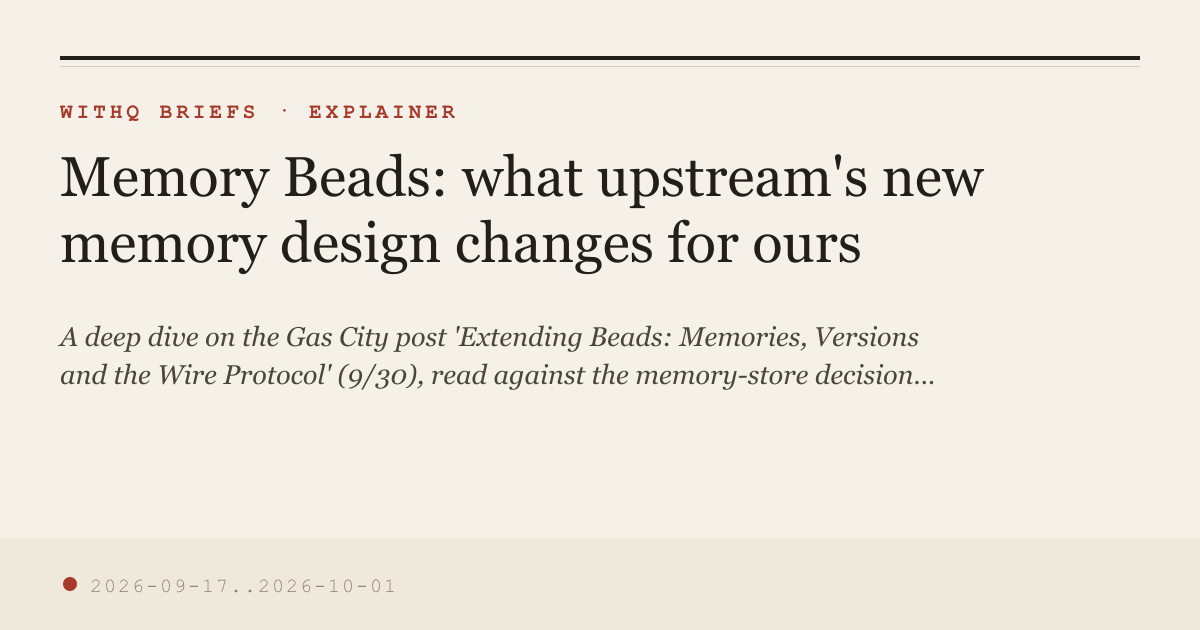
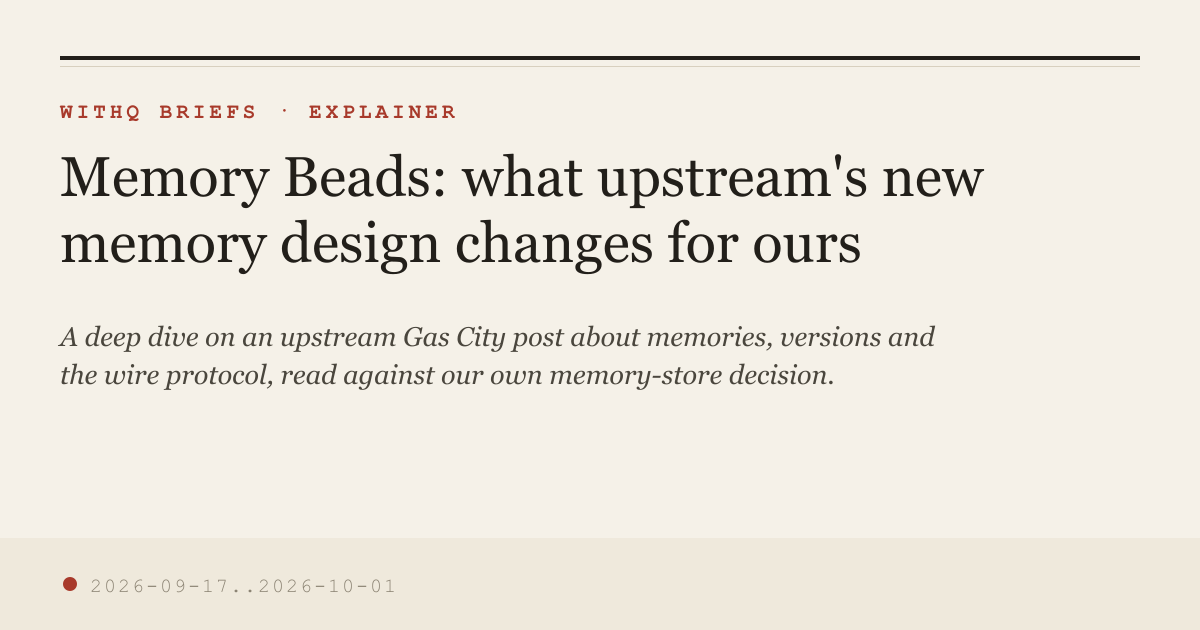
cards: sync org surface (63 cards, 34 skipped)

Changed region(s): [[0.0308, 0.5127, 0.7708, 0.6333]]

diff --git a/index.html b/index.html
@@ -15,14 +15,15 @@ a{color:var(--link)} ul{padding-left:1.1rem} li{margin:.35rem 0} .d{color:var(--
 <body>
 <p><strong>WithQ Briefs — preview cards.</strong></p>
 <p>Link-preview cards for the org-gated briefs site. Each card redirects to a
-brief that requires org sign-in. 62 cards.</p>
+brief that requires org sign-in. 63 cards.</p>
 <ul>
 <li><a href="2026-10-06-skills-design-for-alex.html">The skills design, and five questions for your town</a> <span class="d">A short brief for a co-founder: the shared skills design in one minute, what it changes, and five questions for his side.</span></li>
-<li><a href="2026-10-01-review-grill-pack.html">Review grill pack: Voss&#x27;s data, Alex&#x27;s v3 proposal, and what to change in our review session</a> <span class="d">Pre-read for a review grill: what a recent conference talk measured about code review, the eleven open questions on the next review-plane design…</span></li>
-<li><a href="2026-10-01-memory-beads-deep-dive.html">Memory Beads: what upstream&#x27;s new memory design changes for ours</a> <span class="d">A deep dive on the Gas City post &#x27;Extending Beads: Memories, Versions and the Wire Protocol&#x27; (9/30), read against the memory-store decision you are…</span></li>
+<li><a href="2026-10-06-catch-up-recap.html">Catch-up: Tuesday 6 October</a> <span class="d">An operator catch-up for one day: what is waiting on the operator, what happened in order, and what was decided while he was away.</span></li>
 <li><a href="mallory-living-brief.html">Mallory — Living Brief</a> <span class="d">The infrastructure and system seat at a glance: which PRs sit in review certification and what discharges each, what needs the operator&#x27;s decision…</span></li>
+<li><a href="2026-10-01-review-grill-pack.html">Review grill pack: Voss&#x27;s data, Alex&#x27;s v3 proposal, and what to change in our review session</a> <span class="d">Pre-read for a review grill: what a recent conference talk measured about code review, the eleven open questions on the next review-plane design…</span></li>
+<li><a href="2026-10-01-memory-beads-deep-dive.html">Memory Beads: what upstream&#x27;s new memory design changes for ours</a> <span class="d">A deep dive on an upstream Gas City post about memories, versions and the wire protocol, read against our own memory-store decision.</span></li>
 <li><a href="2026-09-30-pms-certification-call-brief.html">PMS certification call: everything for the 8:15 session</a> <span class="d">One-page call brief for a hotel-software integration certification session: the demo order, what is shown for each submitted use case, what is…</span></li>
-<li><a href="2026-09-29-skills-rework-session-brief.html">Skills Rework: the rundown before our session</a> <span class="d">The pre-read for a decision session on the team&#x27;s reusable agent skills: what two outside collections offer, what our own estate needs, and four…</span></li>
+<li><a href="2026-09-29-skills-rework-session-brief.html">Skills Rework: the rundown before our session</a> <span class="d">Pre-read for a decision session on the team&#x27;s reusable agent skills: what two outside collections offer, what our own estate needs, and six choices…</span></li>
 <li><a href="mayor-living-brief.html">Mayor — Living Brief</a> <span class="d">The mayor seat&#x27;s standing board — done, doing, going, and current understanding. Updated in place; open it for the live state.</span></li>
 <li><a href="cheryl-living-brief.html">Cheryl — Living Brief</a> <span class="d">The standing PA board: what needs attention, what&#x27;s in flight, what just resolved. Updated in place; open it for the live state.</span></li>
 <li><a href="platform-lead-living-brief.html">Platform-lead — Living Brief</a> <span class="d">The platform seat&#x27;s standing board: who holds the queue, where the build lane stands, what was decided. Updated in place; open it for the live state.</span></li>

diff --git a/2026-09-29-skills-rework-session-brief.html b/2026-09-29-skills-rework-session-brief.html
@@ -4,12 +4,12 @@
 <meta charset="utf-8">
 <meta name="viewport" content="width=device-width, initial-scale=1">
 <title>Skills Rework: the rundown before our session</title>
-<meta name="description" content="Pre-read for a decision session on the team&#x27;s reusable agent skills: what two outside collections offer, what our own estate needs, and six choices with costs.">
+<meta name="description" content="Pre-read for a decision session on the team&#x27;s reusable agent skills: what two outside collections offer, what our own estate needs, and six choices…">
 <meta name="robots" content="noindex">
 <meta property="og:type" content="article">
 <meta property="og:site_name" content="WithQ Briefs">
 <meta property="og:title" content="Skills Rework: the rundown before our session">
-<meta property="og:description" content="Pre-read for a decision session on the team&#x27;s reusable agent skills: what two outside collections offer, what our own estate needs, and six choices with costs.">
+<meta property="og:description" content="Pre-read for a decision session on the team&#x27;s reusable agent skills: what two outside collections offer, what our own estate needs, and six choices…">
 <meta property="og:url" content="https://quickserve-ai.github.io/briefs-cards/2026-09-29-skills-rework-session-brief.html">
 <meta property="og:image" content="https://quickserve-ai.github.io/briefs-cards/2026-09-29-skills-rework-session-brief.png">
 <meta property="og:image:width" content="1200">
@@ -17,7 +17,7 @@
 <meta property="og:image:alt" content="Skills Rework: the rundown before our session">
 <meta name="twitter:card" content="summary_large_image">
 <meta name="twitter:title" content="Skills Rework: the rundown before our session">
-<meta name="twitter:description" content="Pre-read for a decision session on the team&#x27;s reusable agent skills: what two outside collections offer, what our own estate needs, and six choices with costs.">
+<meta name="twitter:description" content="Pre-read for a decision session on the team&#x27;s reusable agent skills: what two outside collections offer, what our own estate needs, and six choices…">
 <meta name="twitter:image" content="https://quickserve-ai.github.io/briefs-cards/2026-09-29-skills-rework-session-brief.png">
 <meta http-equiv="refresh" content="0;url=https://ideal-doodle-r3yey16.pages.github.io/2026-09-29-skills-rework-session-brief.html">
 <script>location.replace("https://ideal-doodle-r3yey16.pages.github.io/2026-09-29-skills-rework-session-brief.html");</script>
@@ -29,7 +29,7 @@
 </head>
 <body>
 <p><strong>Skills Rework: the rundown before our session</strong></p>
-<p>Pre-read for a decision session on the team&#x27;s reusable agent skills: what two outside collections offer, what our own estate needs, and six choices with costs.</p>
+<p>Pre-read for a decision session on the team&#x27;s reusable agent skills: what two outside collections offer, what our own estate needs, and six choices…</p>
 <p>Taking you to the brief… (org sign-in required)
    <a href="https://ideal-doodle-r3yey16.pages.github.io/2026-09-29-skills-rework-session-brief.html">Continue →</a></p>
 </body>

diff --git a/2026-10-01-memory-beads-deep-dive.html b/2026-10-01-memory-beads-deep-dive.html
@@ -4,12 +4,12 @@
 <meta charset="utf-8">
 <meta name="viewport" content="width=device-width, initial-scale=1">
 <title>Memory Beads: what upstream&#x27;s new memory design changes for ours</title>
-<meta name="description" content="A deep dive on the Gas City post &#x27;Extending Beads: Memories, Versions and the Wire Protocol&#x27; (9/30), read against the memory-store decision you are…">
+<meta name="description" content="A deep dive on an upstream Gas City post about memories, versions and the wire protocol, read against our own memory-store decision.">
 <meta name="robots" content="noindex">
 <meta property="og:type" content="article">
 <meta property="og:site_name" content="WithQ Briefs">
 <meta property="og:title" content="Memory Beads: what upstream&#x27;s new memory design changes for ours">
-<meta property="og:description" content="A deep dive on the Gas City post &#x27;Extending Beads: Memories, Versions and the Wire Protocol&#x27; (9/30), read against the memory-store decision you are…">
+<meta property="og:description" content="A deep dive on an upstream Gas City post about memories, versions and the wire protocol, read against our own memory-store decision.">
 <meta property="og:url" content="https://quickserve-ai.github.io/briefs-cards/2026-10-01-memory-beads-deep-dive.html">
 <meta property="og:image" content="https://quickserve-ai.github.io/briefs-cards/2026-10-01-memory-beads-deep-dive.png">
 <meta property="og:image:width" content="1200">
@@ -17,7 +17,7 @@
 <meta property="og:image:alt" content="Memory Beads: what upstream&#x27;s new memory design changes for ours">
 <meta name="twitter:card" content="summary_large_image">
 <meta name="twitter:title" content="Memory Beads: what upstream&#x27;s new memory design changes for ours">
-<meta name="twitter:description" content="A deep dive on the Gas City post &#x27;Extending Beads: Memories, Versions and the Wire Protocol&#x27; (9/30), read against the memory-store decision you are…">
+<meta name="twitter:description" content="A deep dive on an upstream Gas City post about memories, versions and the wire protocol, read against our own memory-store decision.">
 <meta name="twitter:image" content="https://quickserve-ai.github.io/briefs-cards/2026-10-01-memory-beads-deep-dive.png">
 <meta http-equiv="refresh" content="0;url=https://ideal-doodle-r3yey16.pages.github.io/2026-10-01-memory-beads-deep-dive.html">
 <script>location.replace("https://ideal-doodle-r3yey16.pages.github.io/2026-10-01-memory-beads-deep-dive.html");</script>
@@ -29,7 +29,7 @@
 </head>
 <body>
 <p><strong>Memory Beads: what upstream&#x27;s new memory design changes for ours</strong></p>
-<p>A deep dive on the Gas City post &#x27;Extending Beads: Memories, Versions and the Wire Protocol&#x27; (9/30), read against the memory-store decision you are…</p>
+<p>A deep dive on an upstream Gas City post about memories, versions and the wire protocol, read against our own memory-store decision.</p>
 <p>Taking you to the brief… (org sign-in required)
    <a href="https://ideal-doodle-r3yey16.pages.github.io/2026-10-01-memory-beads-deep-dive.html">Continue →</a></p>
 </body>

diff --git a/2026-10-06-catch-up-recap.html b/2026-10-06-catch-up-recap.html
@@ -1,0 +1,36 @@
+<!doctype html>
+<html lang="en">
+<head>
+<meta charset="utf-8">
+<meta name="viewport" content="width=device-width, initial-scale=1">
+<title>Catch-up: Tuesday 6 October</title>
+<meta name="description" content="An operator catch-up for one day: what is waiting on the operator, what happened in order, and what was decided while he was away.">
+<meta name="robots" content="noindex">
+<meta property="og:type" content="article">
+<meta property="og:site_name" content="WithQ Briefs">
+<meta property="og:title" content="Catch-up: Tuesday 6 October">
+<meta property="og:description" content="An operator catch-up for one day: what is waiting on the operator, what happened in order, and what was decided while he was away.">
+<meta property="og:url" content="https://quickserve-ai.github.io/briefs-cards/2026-10-06-catch-up-recap.html">
+<meta property="og:image" content="https://quickserve-ai.github.io/briefs-cards/2026-10-06-catch-up-recap.png">
+<meta property="og:image:width" content="1200">
+<meta property="og:image:height" content="630">
+<meta property="og:image:alt" content="Catch-up: Tuesday 6 October">
+<meta name="twitter:card" content="summary_large_image">
+<meta name="twitter:title" content="Catch-up: Tuesday 6 October">
+<meta name="twitter:description" content="An operator catch-up for one day: what is waiting on the operator, what happened in order, and what was decided while he was away.">
+<meta name="twitter:image" content="https://quickserve-ai.github.io/briefs-cards/2026-10-06-catch-up-recap.png">
+<meta http-equiv="refresh" content="0;url=https://ideal-doodle-r3yey16.pages.github.io/2026-10-06-catch-up-recap.html">
+<script>location.replace("https://ideal-doodle-r3yey16.pages.github.io/2026-10-06-catch-up-recap.html");</script>
+<style>
+  body { font: 16px/1.6 Georgia, serif; background: #f5f1e8; color: #221f1a;
+         max-width: 640px; margin: 18vh auto; padding: 0 1.25rem; }
+  a { color: #a83a2b; }
+</style>
+</head>
+<body>
+<p><strong>Catch-up: Tuesday 6 October</strong></p>
+<p>An operator catch-up for one day: what is waiting on the operator, what happened in order, and what was decided while he was away.</p>
+<p>Taking you to the brief… (org sign-in required)
+   <a href="https://ideal-doodle-r3yey16.pages.github.io/2026-10-06-catch-up-recap.html">Continue →</a></p>
+</body>
+</html>
